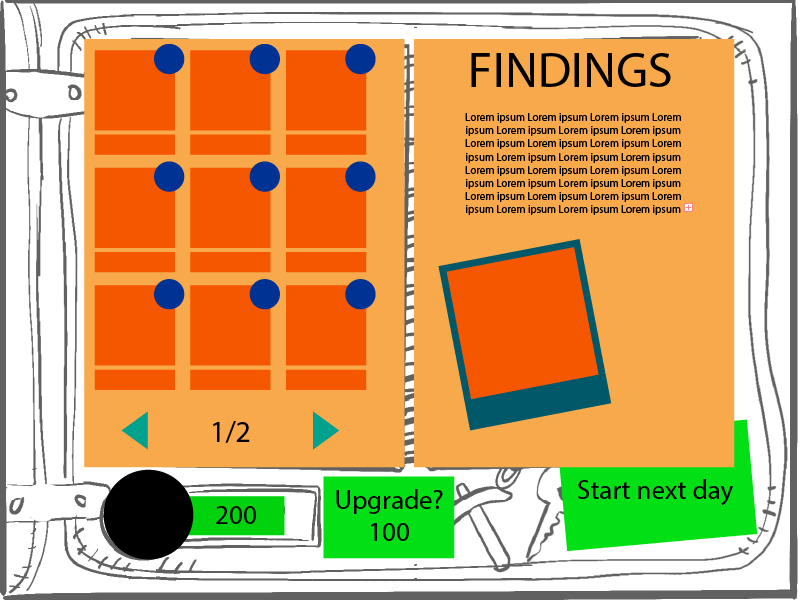
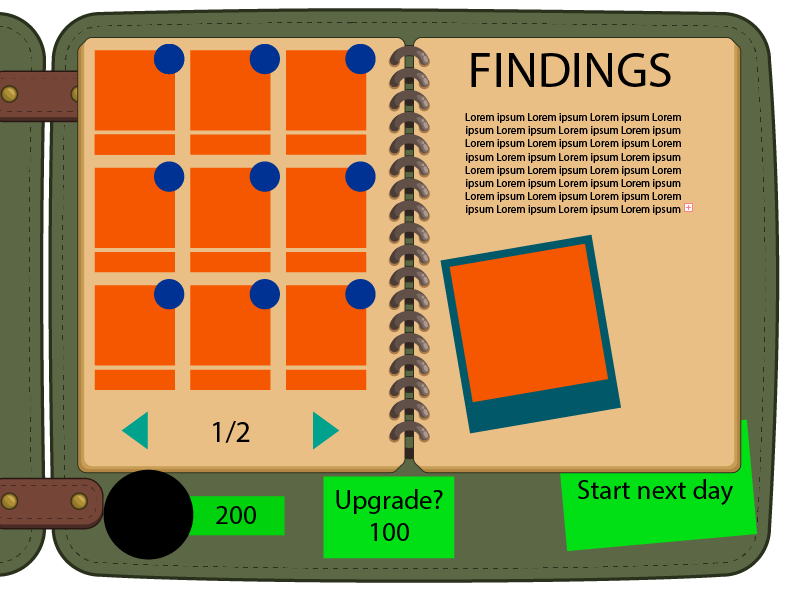
inventory

diff --git a/src/entities/Tile.ts b/src/entities/Tile.ts
@@ -1,4 +1,4 @@
-import {Game, MODE} from '../scenes/game';
+import { Game, MODE } from '../scenes/game';
 
 export default class Tile extends Phaser.GameObjects.Sprite {
     scene: Game;
@@ -12,68 +12,74 @@ export default class Tile extends Phaser.GameObjects.Sprite {
     treasure: number;
 
     constructor(scene: Phaser.Scene, x: number, y: number, z: number, health: number, treasure?: number) {
-      super(scene, 0, 0, null);
+        super(scene, 0, 0, null);
 
-      this.grid = {
-        x,
-        y,
-        z,
-      };
-      this.health = health;
-      this.treasure = treasure;
+        this.grid = {
+            x,
+            y,
+            z,
+        };
+        this.health = health;
+        this.treasure = treasure;
 
-      if (this.treasure) {
-        this.setTint(111111);
-      }
+        if (this.treasure) {
+            this.setTint(111111);
+        }
 
-      this.setOrigin(0, 0);
+        this.setOrigin(0, 0);
 
-      // const textureFile = `dirt_${z}_${health}`;
+        // const textureFile = `dirt_${z}_${health}`;
 
-      const textureFile = 'dirt_' + (z + 1);
-      this.setTexture(textureFile);
+        const textureFile = 'dirt_' + (z + 1);
+        this.setTexture(textureFile);
 
-      this.x = x * this.width;
-      this.y = y * this.height;
+        this.x = x * this.width;
+        this.y = y * this.height;
 
-      this.setInteractive();
-      this.on('pointerup', this.handleClick, this);
-      this.on('pointerover', this.handleOver, this);
-      this.on('pointerout', this.handleOut, this);
+        this.setInteractive();
+        this.on('pointerup', this.handleClick, this);
+        this.on('pointerover', this.handleOver, this);
+        this.on('pointerout', this.handleOut, this);
 
-      this.events = new Phaser.Events.EventEmitter();
+        this.events = new Phaser.Events.EventEmitter();
     }
 
     receiveDamage(damage: number) {
-      this.health -= damage;
+        this.health -= damage;
 
-      if (this.health <= 0) {
-        if (this.treasure) {
-          this.events.emit(TILE_EVENTS.DISCOVER, this.treasure);
+        if (this.health <= 0) {
+            if (this.treasure) {
+                this.events.emit(TILE_EVENTS.DISCOVER, this.treasure);
+            }
+
+            if (this.health < 0) {
+                this.events.emit(TILE_EVENTS.EXTRA_DMG, this, Math.abs(this.health));
+            }
+
+            this.destroy();
         }
-
-        if (this.health < 0) {
-          this.events.emit(TILE_EVENTS.EXTRA_DMG, this, Math.abs(this.health));
-        }
-
-        this.destroy();
-      }
     }
 
     private handleClick() {
-      if (this.scene.mode !== MODE.DIGGING) {
-        return;
-      }
+        if (this.scene.mode !== MODE.DIGGING) {
+            return;
+        }
 
-      this.events.emit(TILE_EVENTS.TAP, this);
+        this.events.emit(TILE_EVENTS.TAP, this);
     }
 
     private handleOver(pointer: Phaser.Input.Pointer) {
-      this.setTint(0x44ff44);
+        if (this.scene.mode !== MODE.DIGGING) {
+            return;
+        }
+        this.setTint(0x44ff44);
     }
 
     private handleOut() {
-      this.clearTint();
+        if (this.scene.mode !== MODE.DIGGING) {
+            return;
+        }
+        this.clearTint();
     }
 }
 

diff --git a/src/entities/Inventory.ts b/src/entities/Inventory.ts
@@ -1,15 +1,105 @@
 import { FoundFragments } from '../scenes/game';
+import Button from './Button';
 import { Scene } from 'phaser';
+
+const TWEEN_DURATION: number = 1000;
 
 export default class Inventory extends Phaser.GameObjects.Container {
     discoveries: FoundFragments[];
+    itemsContainer: Phaser.GameObjects.Container;
+    totalPages: number;
+    currentPage: number;
+    cols: number = 3;
+    rows: number = 3;
+    pageSize: number;
 
-    constructor(scene: Scene, x: number, y: number) {
-        super(scene, x, y);
+    constructor(scene: Scene) {
+        super(scene, 0, 0);
+
+        this.pageSize = this.rows * this.cols;
 
         const bg = new Phaser.GameObjects.Image(scene, 0, 0, 'bag');
         bg.setOrigin(0, 0);
 
-        this.add(bg)
+        // start offscreen
+        this.x = -bg.width;
+
+        this.add(bg);
+
+        this.itemsContainer = new Phaser.GameObjects.Container(scene, 0, 0);
+        this.add(this.itemsContainer);
+
+        const prevButton = new Button(scene, 100, 400, 'arrow');
+        prevButton.setOrigin(0, 0);
+        prevButton.on(Phaser.Input.Events.POINTER_DOWN, this.pagePrev, this);
+        this.add(prevButton);
+
+        const nextButton = new Button(scene, 300, 400, 'arrow');
+        nextButton.setOrigin(0, 0);
+        nextButton.flipX = true;
+        nextButton.on(Phaser.Input.Events.POINTER_DOWN, this.pageNext, this);
+        this.add(nextButton);
+    }
+
+    show() {
+        this.currentPage = 0;
+
+        const totalEntries = this.discoveries.reduce((sum, discovery) => {
+            return sum + discovery.sprites.length;
+        }, 0);
+
+        this.totalPages = Math.ceil(totalEntries / this.pageSize);
+
+        this.createPage(0);
+
+        this.scene.tweens.add({
+            targets: [this],
+            props: {
+                x: 0
+            },
+            ease: Phaser.Math.Easing.Circular.Out,
+            duration: TWEEN_DURATION
+        });
+    }
+
+    createPage(page: number) {
+        let i = 0;
+        const startX = 95;
+        const startY = 50;
+        const spriteW = 100;
+        const spriteH = 120;
+
+        const startI = page * this.pageSize;
+        const endI = startI + this.pageSize;
+
+        this.itemsContainer.removeAll();
+
+        this.discoveries.forEach(discovery => {
+            discovery.sprites.forEach(sprite => {
+                if (i >= startI && i < endI) {
+                    this.itemsContainer.add(sprite);
+                    sprite.scale = 0.6;
+                    sprite.x = (spriteW * (i % this.cols)) + startX;
+                    sprite.y = (spriteH * Math.floor((i - startI) / this.rows)) + startY;
+                    sprite.tint = 200000;
+                }
+
+                i++;
+            });
+        });
+    }
+
+    private pagePrev() {
+        if (this.currentPage > 0) {
+            this.createPage(this.currentPage - 1);
+            this.currentPage--;
+        }
+    }
+
+    private pageNext() {
+        if (this.currentPage < this.totalPages - 1) {
+            this.createPage(this.currentPage + 1);
+            this.currentPage++;
+        }
     }
 }

diff --git a/src/scenes/game.ts b/src/scenes/game.ts
@@ -1,7 +1,8 @@
-import {Scene} from 'phaser';
-import DigSite, {SITE_EVENTS} from '../entities/DigSite';
+import { Scene } from 'phaser';
+import DigSite, { SITE_EVENTS } from '../entities/DigSite';
+import Inventory from '../entities/Inventory';
 import Tool from '../entities/Tool';
-import {shuffle} from '../lib/helpers';
+import { shuffle } from '../lib/helpers';
 import * as config from '../config/config.json';
 import * as treasureConfig from '../config/treasure.json';
 
@@ -11,6 +12,7 @@ export class Game extends Scene {
   foundFragments: FoundFragments[];
   daysLeft: number;
   tool: Tool;
+  inventory: Inventory;
 
   constructor() {
     super({
@@ -34,7 +36,24 @@ export class Game extends Scene {
     this.digSite.events.on(SITE_EVENTS.DISCOVER, this.handleDiscovery, this);
     this.digSite.events.on(SITE_EVENTS.TAP, this.handleTap, this);
 
-    this.switchMode(MODE.DIGGING);
+    //this.switchMode(MODE.DIGGING);
+
+    const sprites = [];
+    for (let i = 0; i < 13; i++) {
+      const fragmentSprite = new Phaser.GameObjects.Sprite(this, 0, 0, 'item_large');
+      fragmentSprite.setOrigin(0, 0);
+
+      sprites.push(fragmentSprite);
+    }
+
+    this.foundFragments[1] = {
+      found: 0,
+      pieces: [],
+      piecesLeft: [],
+      sprites
+    };
+
+    this.switchMode(MODE.INVENTORY);
   }
 
   private handleTap() {
@@ -49,6 +68,13 @@ export class Game extends Scene {
     this.mode = mode;
 
     if (this.mode === MODE.INVENTORY) {
+      if (!this.inventory) {
+        this.inventory = new Inventory(this);
+        this.inventory.discoveries = this.foundFragments;
+        this.add.existing(this.inventory);
+      }
+
+      this.inventory.show();
       this.daysLeft--;
 
       if (this.daysLeft <= 0) {
@@ -91,7 +117,10 @@ export class Game extends Scene {
     const foundPiece = this.foundFragments[treasure].piecesLeft.pop();
     this.foundFragments[treasure].pieces.push(foundPiece);
 
-    const fragmentSprite = new Phaser.GameObjects.Sprite(this, 0, 0, `fragment_${tc.id}_${foundPiece}`);
+    //  `fragment_${tc.id}_${foundPiece}`
+    const spriteName = 'item_large';
+    const fragmentSprite = new Phaser.GameObjects.Sprite(this, 0, 0, spriteName);
+    fragmentSprite.setOrigin(0, 0);
     this.foundFragments[treasure].sprites.push(fragmentSprite);
 
     console.log(this.foundFragments);

diff --git a/src/entities/Button.ts b/src/entities/Button.ts
@@ -1,25 +1,29 @@
 import { Scene } from "phaser";
 
 export default class Button extends Phaser.GameObjects.Sprite {
-    constructor(scene: Scene, x: number, y: number, texture: string, hoverFrame: number, clickFrame: number) {
+    constructor(scene: Scene, x: number, y: number, texture: string, hoverFrame?: number, clickFrame?: number) {
         super(scene, x, y, texture);
 
         this.setInteractive();
 
-        this.on(Phaser.Input.Events.POINTER_OVER, () => {
-            this.setFrame(hoverFrame);
-        });
+        if (hoverFrame) {
+            this.on(Phaser.Input.Events.POINTER_OVER, () => {
+                this.setFrame(hoverFrame);
+            });
 
-        this.on(Phaser.Input.Events.POINTER_OUT, () => {
-            this.setFrame(0);
-        });
+            this.on(Phaser.Input.Events.POINTER_OUT, () => {
+                this.setFrame(0);
+            });
+        }
 
-        this.on(Phaser.Input.Events.POINTER_DOWN, () => {
-            this.setFrame(clickFrame);
-        });
+        if (clickFrame) {
+            this.on(Phaser.Input.Events.POINTER_DOWN, () => {
+                this.setFrame(clickFrame);
+            });
 
-        this.on(Phaser.Input.Events.POINTER_UP, () => {
-            this.setFrame(0);
-        });
+            this.on(Phaser.Input.Events.POINTER_UP, () => {
+                this.setFrame(0);
+            });
+        }
     }
 }
